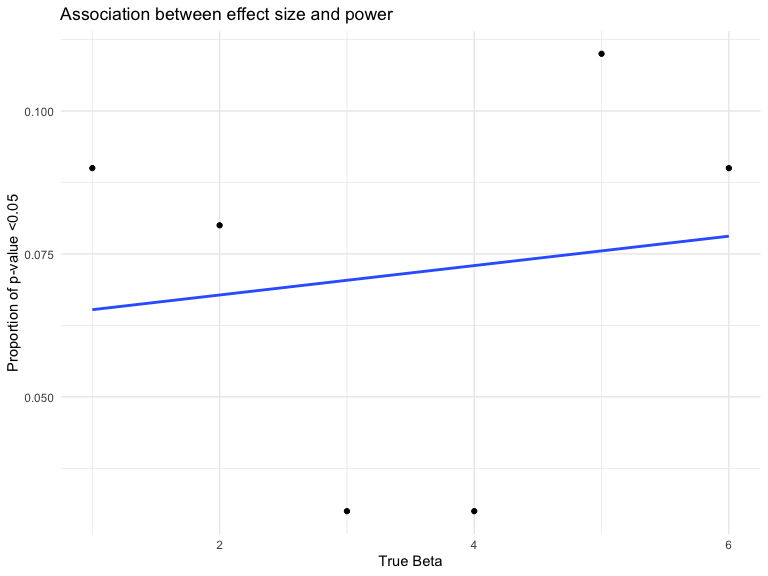
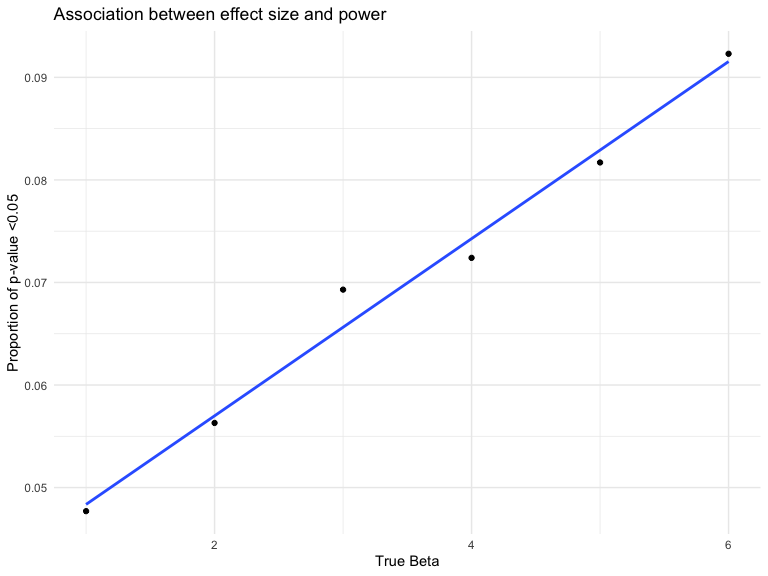
almost finish

diff --git a/p8105_hw5_as5685.md b/p8105_hw5_as5685.md
@@ -149,7 +149,7 @@ Repeat the above for β1={1,2,3,4,5,6}, and complete the following:
 sim_betas = 
 tibble( betas = c(1,2,3,4,5,6)) %>% 
 mutate(
-  beta_lists = map(.x = betas, ~rerun(100, sim_regression( beta1 = .x))),
+  beta_lists = map(.x = betas, ~rerun(10000, sim_regression( beta1 = .x))),
   beta_dfs = map(beta_lists, bind_rows)
   ) %>% 
   select(-beta_lists) %>%
@@ -192,7 +192,7 @@ plot_power_effect
     higher) with the increase of effect size(beta
 values).
 
-#### Plot for true betas and estimated betas as well asn estimated betas with p-values less than 0.05.
+#### Plot for true betas and corresponding means of estimated betas as well asn estimated betas with p-values less than 0.05.
 
 ``` r
 plot_beta = 
@@ -202,7 +202,13 @@ plot_beta =
     estimatedbeta_mean = mean(beta1_hat)
   ) %>% 
   ggplot(aes(x = betas, y = estimatedbeta_mean)) + 
-  geom_point() + geom_smooth(method = "lm", se = FALSE)
+  geom_point() + geom_smooth(method = "lm", se = FALSE) +  
+  labs(
+    title = "Association between true betas and  corresponding estimated betas means",
+    x = "True Betas",
+    y = "Means of Estimated Betas"
+  )
+  
 plot_beta
 ```
 
@@ -217,7 +223,12 @@ plot_rejectbeta =
     meanbeta = mean(beta1_hat)
   ) %>% 
   ggplot(aes(x = betas, y = meanbeta)) + 
-  geom_point() + geom_smooth(method = "lm", se = FALSE)
+  geom_point() + geom_smooth(method = "lm", se = FALSE) +
+  labs(
+    title = "Association between true betas and means of estimated beta for rejecting Ho",
+    x = "True Betas",
+    y = "Mean of Estimated betas"
+  )
 
 plot_rejectbeta
 ```
@@ -228,4 +239,4 @@ plot_rejectbeta
     rejected is not approximately equal to the true value of beta, since
     when p-value is greater than 0.05, the estimated betas are more
     close to zero. Therefore, if we exclude the p-values that are not
-    rejecting the hypothesis, the mean of betas are
+    rejecting the hypothesis, the mean of betas will be increased.
